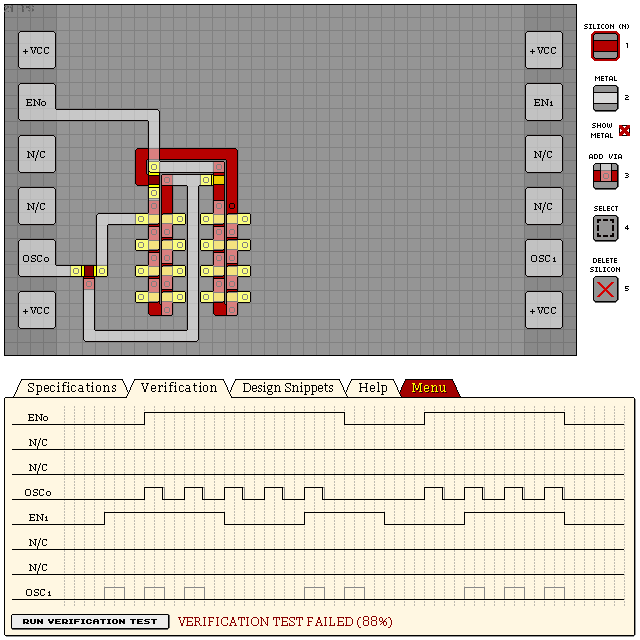
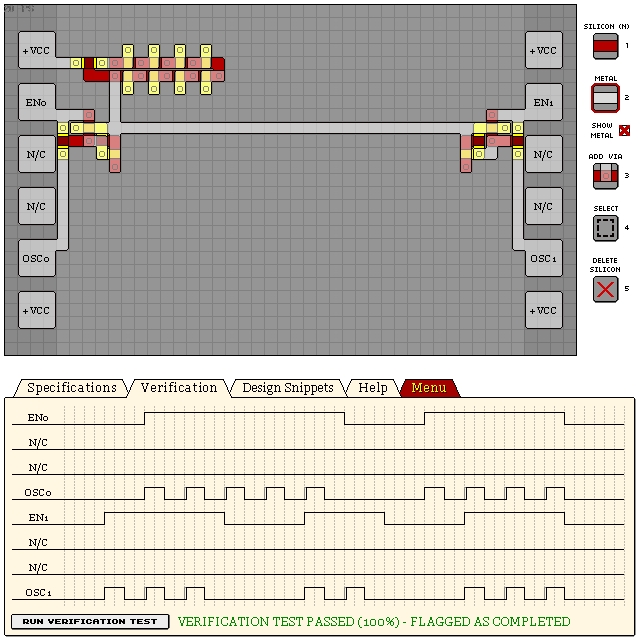
KO223

diff --git a/levels/05 KO223 DUAL FIXED FREQUENCY OSCILLATOR.md b/levels/05 KO223 DUAL FIXED FREQUENCY OSCILLATOR.md
@@ -1,20 +1,21 @@
 # KO223 - DUAL FIXED FREQUENCY OSCILLATOR
 
-Work in progress
+Pulse generator that triggers two T-Latches.
 
-- Verification: Failed (88%)
-- Design Score: 181
+- Verification: Passed (100%)
+- Design Score: 161
 
 ```
[8 lines of base64/hex data omitted]
-qdVPPOSD/lTwxNPIWfd3tOZaVZGSNrPK5o70Czp3yD4=
[9 lines of base64/hex data omitted]
+cFUrOUNpR2KWJ9Djx/4=
 ```
 
 ![05 KO223 DUAL FIXED FREQUENCY OSCILLATOR](./assets/05.png)
